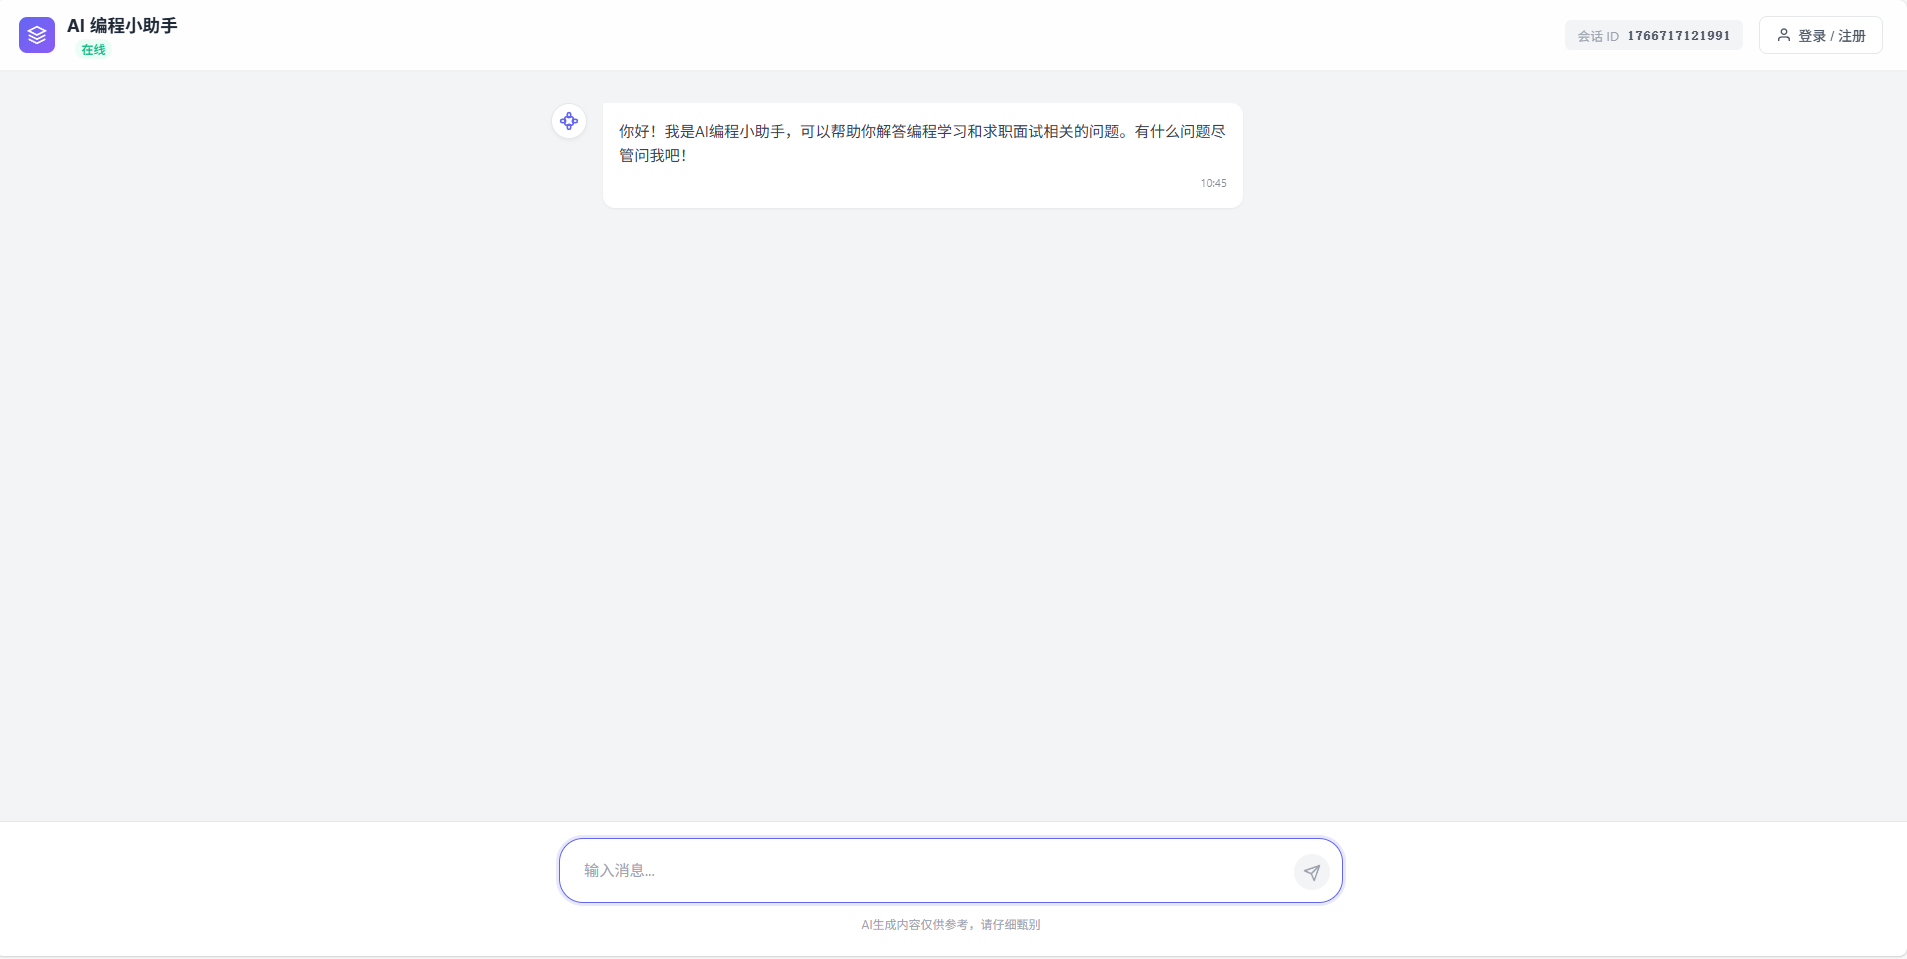
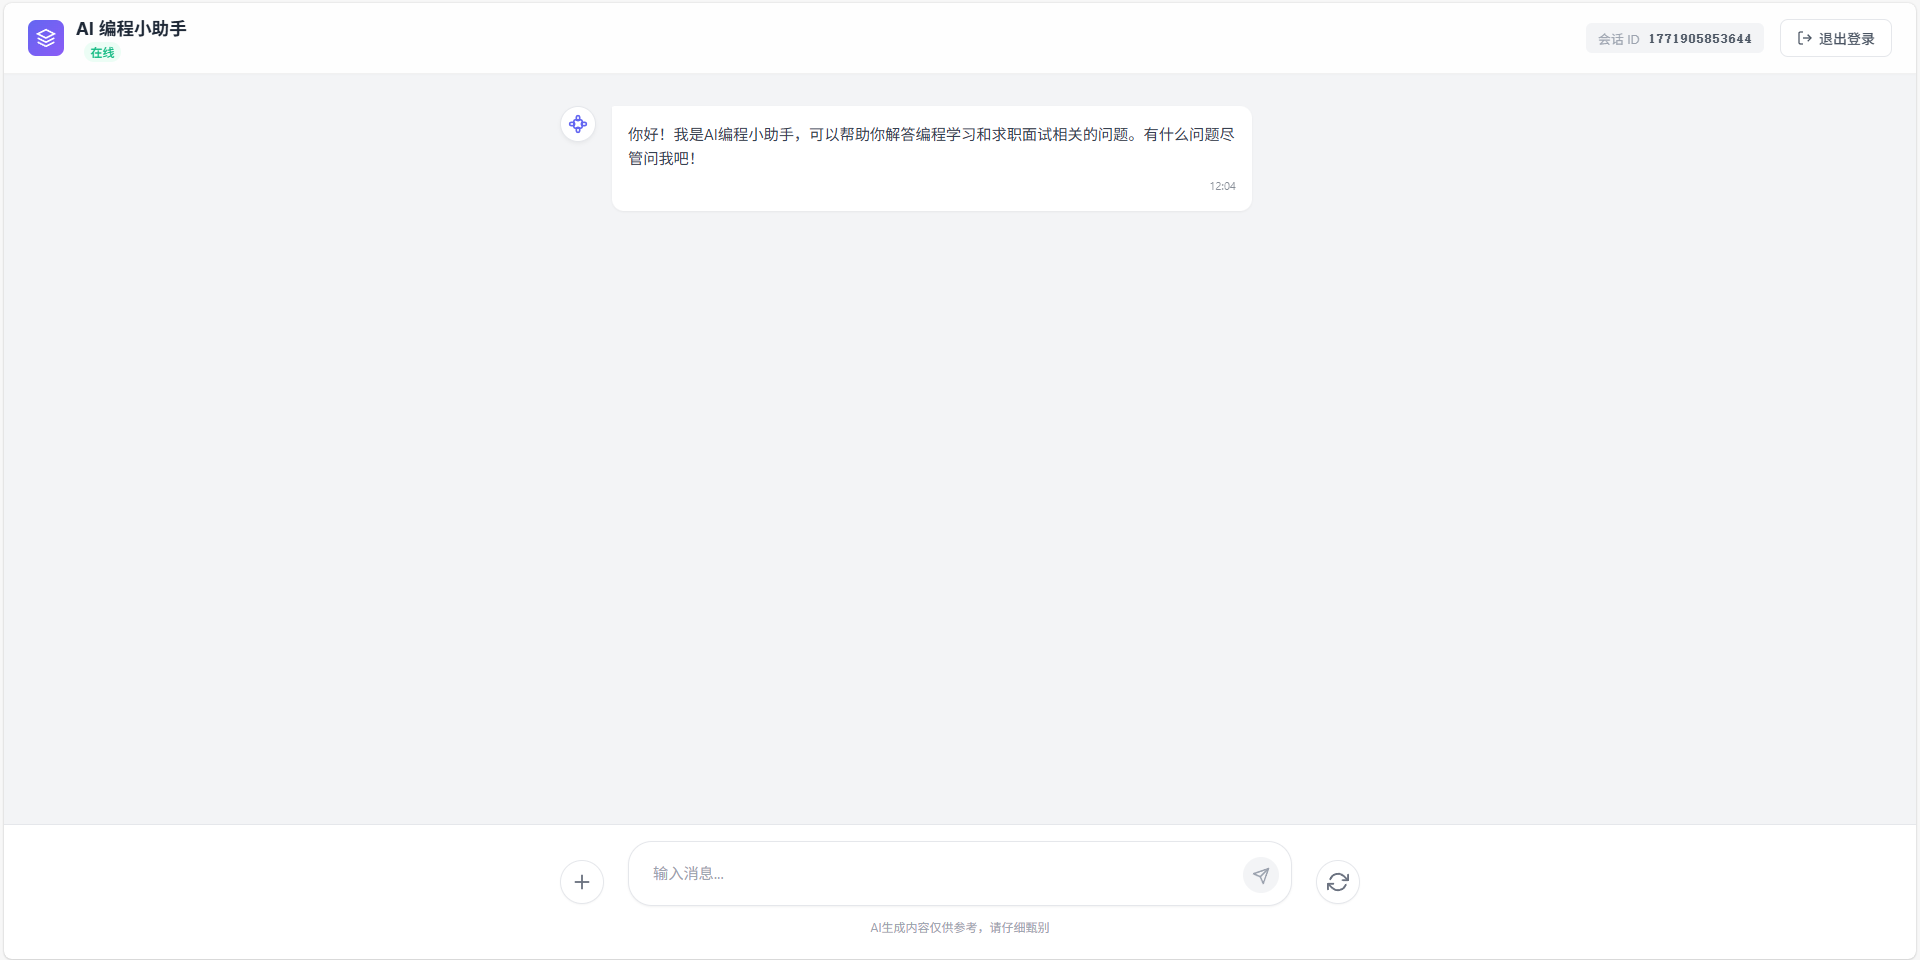
新增了文件上传功能以及刷新按钮

diff --git a/ai-code-helper-frontend/src/components/ChatRoom.vue b/ai-code-helper-frontend/src/components/ChatRoom.vue
@@ -87,10 +87,58 @@
     <!-- 底部输入区域 -->
     <div class="input-area">
       <div class="input-wrapper">
-        <MessageInput
-            @send-message="handleSendMessage"
-            :disabled="isLoading"
-        />
+        <!-- 附件列表显示区域 -->
+        <div v-if="uploadedFiles.length > 0" class="file-list-preview">
+          <div v-for="(file, index) in uploadedFiles" :key="index" class="file-chip">
+            <svg class="file-icon" viewBox="0 0 24 24" fill="none" stroke="currentColor" stroke-width="2">
+              <path d="M13 2H6a2 2 0 0 0-2 2v16a2 2 0 0 0 2 2h12a2 2 0 0 0 2-2V9z"></path>
+              <polyline points="13 2 13 9 20 9"></polyline>
+            </svg>
+            <span class="file-name" :title="file.name">{{ file.name }}</span>
+            <button class="remove-file-btn" @click="removeFile(index)" title="删除附件">
+              <svg viewBox="0 0 24 24" fill="none" stroke="currentColor" stroke-width="2">
+                <line x1="18" y1="6" x2="6" y2="18"></line>
+                <line x1="6" y1="6" x2="18" y2="18"></line>
+              </svg>
+            </button>
+          </div>
+        </div>
+        
+        <div class="input-controls">
+          <!-- 上传按钮 -->
+          <button class="action-btn upload-btn" @click="triggerFileUpload" :disabled="isLoading" title="上传文件">
+            <svg viewBox="0 0 24 24" fill="none" stroke="currentColor" stroke-width="2" stroke-linecap="round" stroke-linejoin="round">
+              <line x1="12" y1="5" x2="12" y2="19"></line>
+              <line x1="5" y1="12" x2="19" y2="12"></line>
+            </svg>
+          </button>
+          
+          <!-- 隐藏的文件输入框 -->
+          <input 
+            type="file" 
+            ref="fileInput" 
+            class="hidden-file-input"
+            accept=".pdf,.doc,.docx,image/*" 
+            multiple 
+            @change="handleFileUpload" 
+          />
+          
+          <div class="message-input-container">
+            <MessageInput
+                @send-message="handleSendMessage"
+                :disabled="isLoading"
+            />
+          </div>
+          
+          <!-- 重启对话按钮 -->
+          <button class="action-btn refresh-btn" @click="handleResetChat" :disabled="isLoading" title="重启对话">
+            <svg viewBox="0 0 24 24" fill="none" stroke="currentColor" stroke-width="2" stroke-linecap="round" stroke-linejoin="round">
+              <polyline points="23 4 23 10 17 10"></polyline>
+              <polyline points="1 20 1 14 7 14"></polyline>
+              <path d="M3.51 9a9 9 0 0 1 14.85-3.36L23 10M1 14l4.64 4.36A9 9 0 0 0 20.49 15"></path>
+            </svg>
+          </button>
+        </div>
       </div>
       <div class="input-footer">
         AI生成内容仅供参考，请仔细甄别
@@ -116,6 +164,7 @@ export default {
     return {
       memoryId: null,
       messages: [],
+      uploadedFiles: [],
       isLoading: false,
       isTyping: false,
       eventSource: null,
@@ -173,6 +222,38 @@ export default {
         content: '你好！我是AI编程小助手，可以帮助你解答编程学习和求职面试相关的问题。有什么问题尽管问我吧！',
         timestamp: new Date()
       })
+    },
+
+    triggerFileUpload() {
+      if (this.isLoading) return
+      this.$refs.fileInput.click()
+    },
+
+    handleFileUpload(event) {
+      const files = Array.from(event.target.files)
+      if (!files.length) return
+      
+      files.forEach(file => {
+        this.uploadedFiles.push(file)
+      })
+      
+      // 清空 input 值，允许重复上传同名文件
+      event.target.value = ''
+    },
+
+    removeFile(index) {
+      this.uploadedFiles.splice(index, 1)
+    },
+
+    handleResetChat() {
+      if (this.isLoading) return
+      
+      if (confirm('确定要刷新并重启对话吗？当前的聊天记录将会被清空。')) {
+        this.messages = []
+        this.uploadedFiles = []
+        this.memoryId = generateMemoryId()
+        this.addWelcomeMessage()
+      }
     },
 
     async handleSendMessage(message) {
@@ -659,7 +740,7 @@ export default {
   }
 }
 
-/* 底部输入区 (保持不变) */
+/* 底部输入区 */
 .input-area {
   background: white;
   padding: 1rem 1.5rem 1.5rem;
@@ -669,6 +750,118 @@ export default {
 .input-wrapper {
   max-width: 800px;
   margin: 0 auto;
+  display: flex;
+  flex-direction: column;
+}
+
+.input-controls {
+  display: flex;
+  align-items: flex-end;
+  gap: 1rem;
+}
+
+.message-input-container {
+  flex: 1;
+}
+
+.action-btn {
+  width: 44px;
+  height: 44px;
+  border-radius: 50%;
+  background: white;
+  border: 1px solid #e5e7eb;
+  color: #6b7280;
+  display: flex;
+  align-items: center;
+  justify-content: center;
+  cursor: pointer;
+  transition: all 0.2s cubic-bezier(0.4, 0, 0.2, 1);
+  flex-shrink: 0;
+  box-shadow: 0 1px 2px rgba(0, 0, 0, 0.05);
+  margin-bottom: 2px; /* Slight adjustment to align with the message input visual bottom */
+}
+
+.action-btn:hover:not(:disabled) {
+  background: #f9fafb;
+  color: #6366f1;
+  border-color: #c7d2fe;
+  transform: scale(1.05);
+}
+
+.action-btn:active:not(:disabled) {
+  transform: scale(0.95);
+}
+
+.action-btn:disabled {
+  opacity: 0.5;
+  cursor: not-allowed;
+  background: #f3f4f6;
+}
+
+.action-btn svg {
+  width: 22px;
+  height: 22px;
+}
+
+.hidden-file-input {
+  display: none;
+}
+
+.file-list-preview {
+  display: flex;
+  flex-wrap: wrap;
+  gap: 0.5rem;
+  margin-bottom: 0.75rem;
+  padding: 0 3.5rem; /* align roughly with the message text area */
+}
+
+.file-chip {
+  display: flex;
+  align-items: center;
+  gap: 0.4rem;
+  background: #f3f4f6;
+  border: 1px solid #e5e7eb;
+  border-radius: 12px;
+  padding: 0.35rem 0.5rem 0.35rem 0.75rem;
+  font-size: 0.8rem;
+  color: #374151;
+  animation: slideIn 0.2s ease-out;
+}
+
+.file-icon {
+  width: 14px;
+  height: 14px;
+  color: #6b7280;
+}
+
+.file-name {
+  max-width: 150px;
+  white-space: nowrap;
+  overflow: hidden;
+  text-overflow: ellipsis;
+}
+
+.remove-file-btn {
+  background: none;
+  border: none;
+  padding: 0.1rem;
+  color: #9ca3af;
+  cursor: pointer;
+  border-radius: 50%;
+  display: flex;
+  align-items: center;
+  justify-content: center;
+  transition: all 0.2s;
+}
+
+.remove-file-btn:hover {
+  color: #ef4444;
+  background: #fee2e2;
+}
+
+.remove-file-btn svg {
+  width: 14px;
+  height: 14px;
 }
 
 .input-footer {
